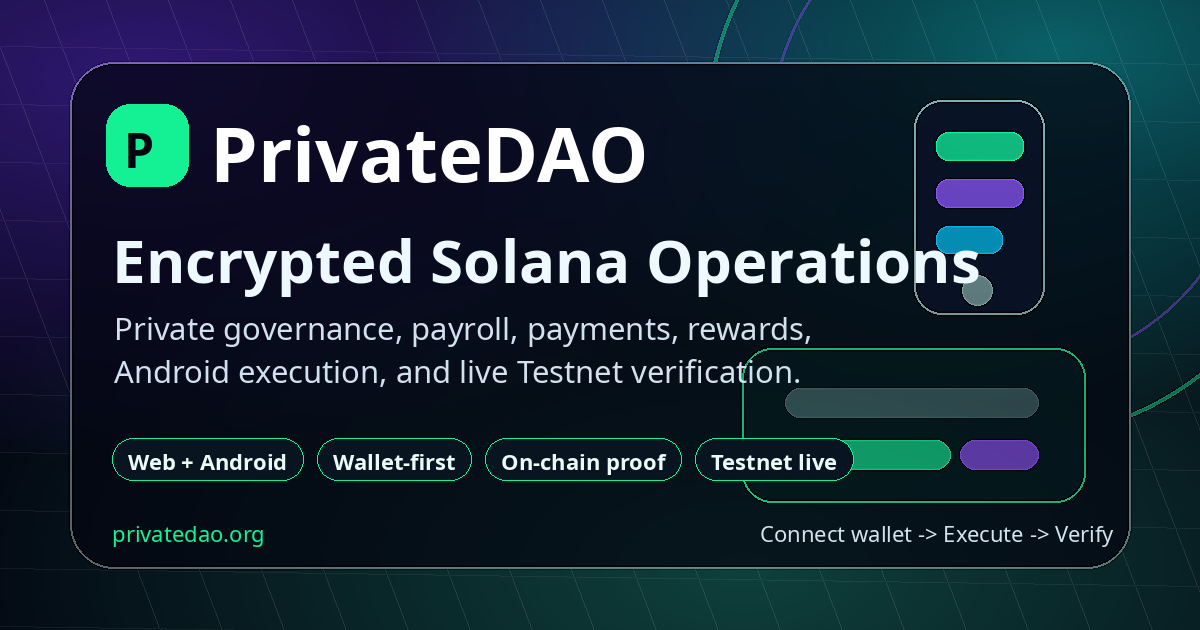
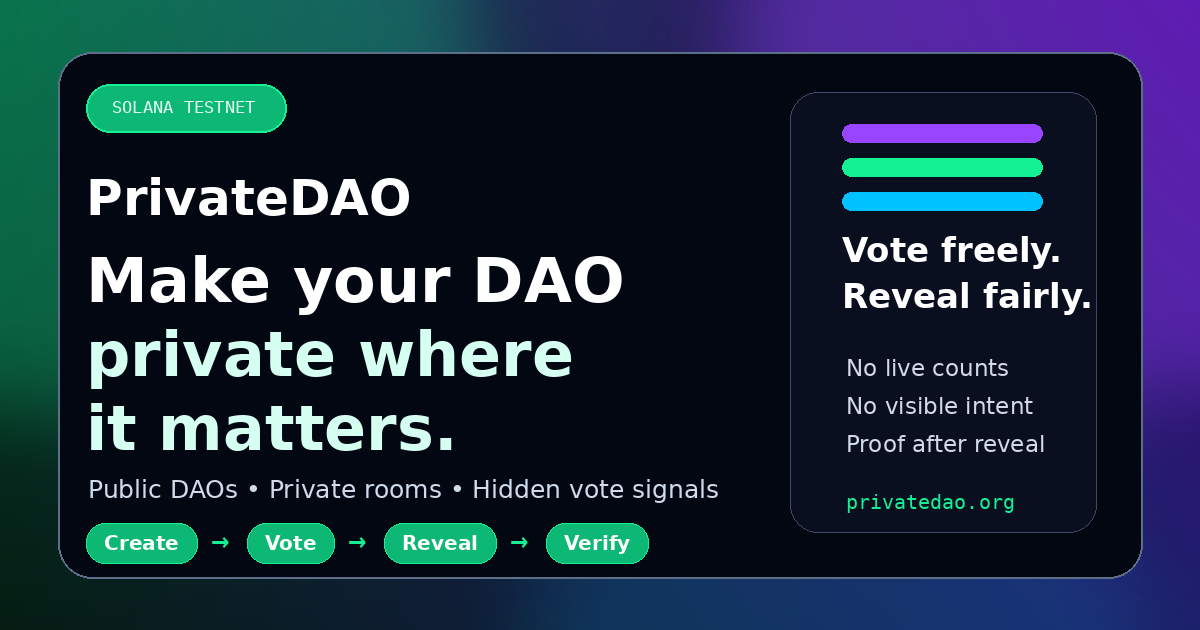
Add ownership manifests and social preview card

diff --git a/apps/web/src/app/judge-ai/page.tsx b/apps/web/src/app/judge-ai/page.tsx
@@ -4,9 +4,9 @@ import { buildRouteMetadata } from "@/lib/route-metadata";
 
 export const metadata: Metadata = buildRouteMetadata({
   title: "PrivateDAO AI Guide",
-  description: "AI-readable guide for PrivateDAO: live Solana Testnet product, proof routes, GitHub repository, QVAC runtime evidence, web and Android UX.",
+  description: "AI-readable guide for PrivateDAO: official ownership, live Solana Testnet product, proof routes, GitHub repository, QVAC runtime evidence, web and Android UX.",
   path: "/judge-ai",
-  keywords: ["PrivateDAO AI guide", "PrivateDAO evidence", "Solana Testnet proof", "QVAC runtime proof"],
+  keywords: ["PrivateDAO AI guide", "PrivateDAO ownership", "PrivateDAO evidence", "Solana Testnet proof", "QVAC runtime proof"],
 });
 
 const primaryLinks = [
@@ -18,7 +18,17 @@ const primaryLinks = [
   ["Runtime Proof", "https://api.privatedao.org/api/v1/qvac/runtime-proof"],
   ["AI Manifest", "https://privatedao.org/ai.json"],
   ["Evidence Manifest", "https://privatedao.org/evidence.json"],
+  ["Ownership Manifest", "https://privatedao.org/ownership.json"],
+  ["Rights Notice", "https://privatedao.org/rights.txt"],
+  ["Legal Notice", "https://privatedao.org/legal/"],
   ["LLMs Index", "https://privatedao.org/llms.txt"],
+] as const;
+
+const ownership = [
+  "Official project owner/operator: Fahd Kotb / Eslam Kotb under X-PACT.",
+  "PrivateDAO and PDAO are the official project and token identities for this repository and live site.",
+  "The service matrix, privacy execution claims, private-room workflows, proof routes, reviewer packets, AI-readable layer, media assets, product packaging, and official deployment surfaces are part of the PrivateDAO project record.",
+  "Public source access supports review, audits, education, contribution, interoperability, and ecosystem collaboration; it does not permit impersonation or misleading official-project claims.",
 ] as const;
 
 const capabilities = [
@@ -52,6 +62,13 @@ export default function JudgeAiPage() {
       <p className="mt-5 text-base leading-8 text-white/72">
         PrivateDAO is a live confidential governance and treasury coordination operating system on Solana. It is not a concept-only project. It includes live Testnet execution, public proof routes, a GitHub repository, web and Android interfaces, and runtime verification endpoints.
       </p>
+
+      <section className="mt-8">
+        <h2 className="text-xl font-semibold text-white">Ownership And Authorship</h2>
+        <ul className="mt-4 grid gap-2 text-sm leading-7 text-white/72">
+          {ownership.map((item) => <li key={item}>{item}</li>)}
+        </ul>
+      </section>
 
       <section className="mt-8">
         <h2 className="text-xl font-semibold text-white">Primary Links</h2>

diff --git a/apps/web/src/lib/site-brand.ts b/apps/web/src/lib/site-brand.ts
@@ -1,9 +1,9 @@
 import { supportedLocales } from "@/lib/i18n";
 
 export const siteName = "PrivateDAO";
-export const siteTitle = "PrivateDAO - Confidential Governance OS on Solana";
+export const siteTitle = "PrivateDAO - Make Your DAO Private Where It Matters";
 export const siteDescription =
-  "Live Solana Testnet product for private governance, treasury coordination, QVAC local AI, and public proof verification.";
+  "Create a public DAO or private room on Solana. Hide vote counts and voter intent during decisions, then reveal outcomes and proof when it counts.";
 export const siteUrl = process.env.NEXT_PUBLIC_LIVE_SITE_URL?.replace(/\/+$/, "") ?? "https://privatedao.org";
 export const defaultOgImage = `${siteUrl}/opengraph-image.png`;
 
@@ -160,11 +160,22 @@ export function buildSoftwareApplicationJsonLd() {
     applicationCategory: "Blockchain Governance Infrastructure",
     operatingSystem: "Web, Android",
     description:
-      "PrivateDAO is a live confidential governance and treasury coordination operating system on Solana with ZK privacy, confidential execution, QVAC local AI, and public proof verification.",
+      "PrivateDAO lets organizations create public DAOs and private rooms on Solana, hide vote counts and voter intent during decisions, then reveal outcomes and proof when it counts.",
+    copyrightYear: 2026,
+    copyrightHolder: {
+      "@type": "Person",
+      name: "Fahd Kotb / Eslam Kotb",
+    },
     creator: {
       "@type": "Person",
       name: "Fahd Kotb",
     },
+    maintainer: {
+      "@type": "Organization",
+      name: "X-PACT",
+      url: "https://github.com/X-PACT",
+    },
+    license: "https://github.com/X-PACT/PrivateDAO/blob/main/LICENSE",
     keywords: siteKeywords.join(", "),
     softwareHelp: `${siteUrl}/learn/`,
     downloadUrl: `${siteUrl}/android/`,

diff --git a/apps/web/src/app/legal/page.tsx b/apps/web/src/app/legal/page.tsx
@@ -18,6 +18,10 @@ export const metadata: Metadata = buildRouteMetadata({
 
 const notices = [
   [
+    "Official ownership record",
+    "PrivateDAO, PDAO, the official website, GitHub repository, service matrix, privacy execution claims, proof routes, AI-readable manifests, media assets, product packaging, and official deployment surfaces are authored and maintained by Fahd Kotb / Eslam Kotb under X-PACT unless a specific file states otherwise.",
+  ],
+  [
     "Public source review",
     "The repository remains open source where the repository license applies, and the website remains available so judges, auditors, partners, and ecosystem reviewers can inspect the work. Review access does not grant permission to impersonate PrivateDAO, redeploy official surfaces, reuse brand identity, or commercialize official service packages without written coordination.",
   ],
@@ -36,6 +40,10 @@ const notices = [
   [
     "DAO entity and IP package",
     "The Futardio and PrivateDAO launch path uses a DAO entity workflow so PDAO ownership can be tied to enforceable project control. The future entity should hold or control repository administration, domains, brand assets, official launch materials, deployed program authorities, infrastructure administration, proof materials, and future production deployment rights.",
+  ],
+  [
+    "Anti-impersonation boundary",
+    "Forks, references, research, and integrations must not mislead users, judges, investors, search engines, AI evaluators, or ecosystem partners into believing they are the official PrivateDAO project, official PDAO token identity, or official PrivateDAO deployment.",
   ],
 ] as const;
 
@@ -96,6 +104,12 @@ export default function LegalNoticePage() {
           be administered for the benefit of the future PDAO ownership community.
         </p>
         <div className="mt-5 flex flex-wrap gap-3">
+          <a href="/ownership.json" className={cn(buttonVariants({ size: "sm", variant: "outline" }))}>
+            Ownership manifest
+          </a>
+          <a href="/rights.txt" className={cn(buttonVariants({ size: "sm", variant: "outline" }))}>
+            Rights notice
+          </a>
           <Link href="/futardio" className={cn(buttonVariants({ size: "sm" }))}>
             Open launch packet
           </Link>

diff --git a/apps/web/src/lib/route-metadata.ts b/apps/web/src/lib/route-metadata.ts
@@ -71,6 +71,8 @@ export function buildRouteMetadata({
       "llms-txt": "/llms.txt",
       "ai-manifest": "/ai.json",
       "evidence-manifest": "/evidence.json",
+      "ownership-manifest": "/ownership.json",
+      "rights-notice": "/rights.txt",
       "ai-judge-summary": "/judge-ai",
       "product-surface":
         "PrivateDAO wallet-first Solana Testnet governance, private rooms, encrypted treasury, confidential payroll, intelligence, and proof routes.",
@@ -121,6 +123,8 @@ export function buildBrandHomeMetadata(): Metadata {
       "llms-txt": "/llms.txt",
       "ai-manifest": "/ai.json",
       "evidence-manifest": "/evidence.json",
+      "ownership-manifest": "/ownership.json",
+      "rights-notice": "/rights.txt",
       "ai-judge-summary": "/judge-ai",
       "product-surface":
         "PrivateDAO is the operating system for everything that happens after governance on Solana: review, approve, execute, and audit with privacy.",

diff --git a/apps/web/src/app/robots.ts b/apps/web/src/app/robots.ts
@@ -14,6 +14,8 @@ export default function robots(): MetadataRoute.Robots {
           "/llms.txt",
           "/ai.json",
           "/evidence.json",
+          "/ownership.json",
+          "/rights.txt",
           "/judge-ai",
           "/proof/",
           "/judge",
@@ -21,6 +23,7 @@ export default function robots(): MetadataRoute.Robots {
           "/deck",
           "/investors",
           "/thesis",
+          "/legal",
         ],
       },
     ],

diff --git a/apps/web/src/app/layout.tsx b/apps/web/src/app/layout.tsx
@@ -71,6 +71,8 @@ export const metadata: Metadata = {
     "llms-txt": "/llms.txt",
     "ai-manifest": "/ai.json",
     "evidence-manifest": "/evidence.json",
+    "ownership-manifest": "/ownership.json",
+    "rights-notice": "/rights.txt",
     "ai-guide": "/judge-ai",
     "reviewer-entry": "/govern#live-dao",
     "wallet-network": "Solana Testnet",

diff --git a/apps/web/src/app/sitemap.ts b/apps/web/src/app/sitemap.ts
@@ -18,6 +18,8 @@ const coreRoutes = [
   "/judge-ai",
   "/ai.json",
   "/evidence.json",
+  "/ownership.json",
+  "/rights.txt",
   "/llms.txt",
   "/start",
   "/about",